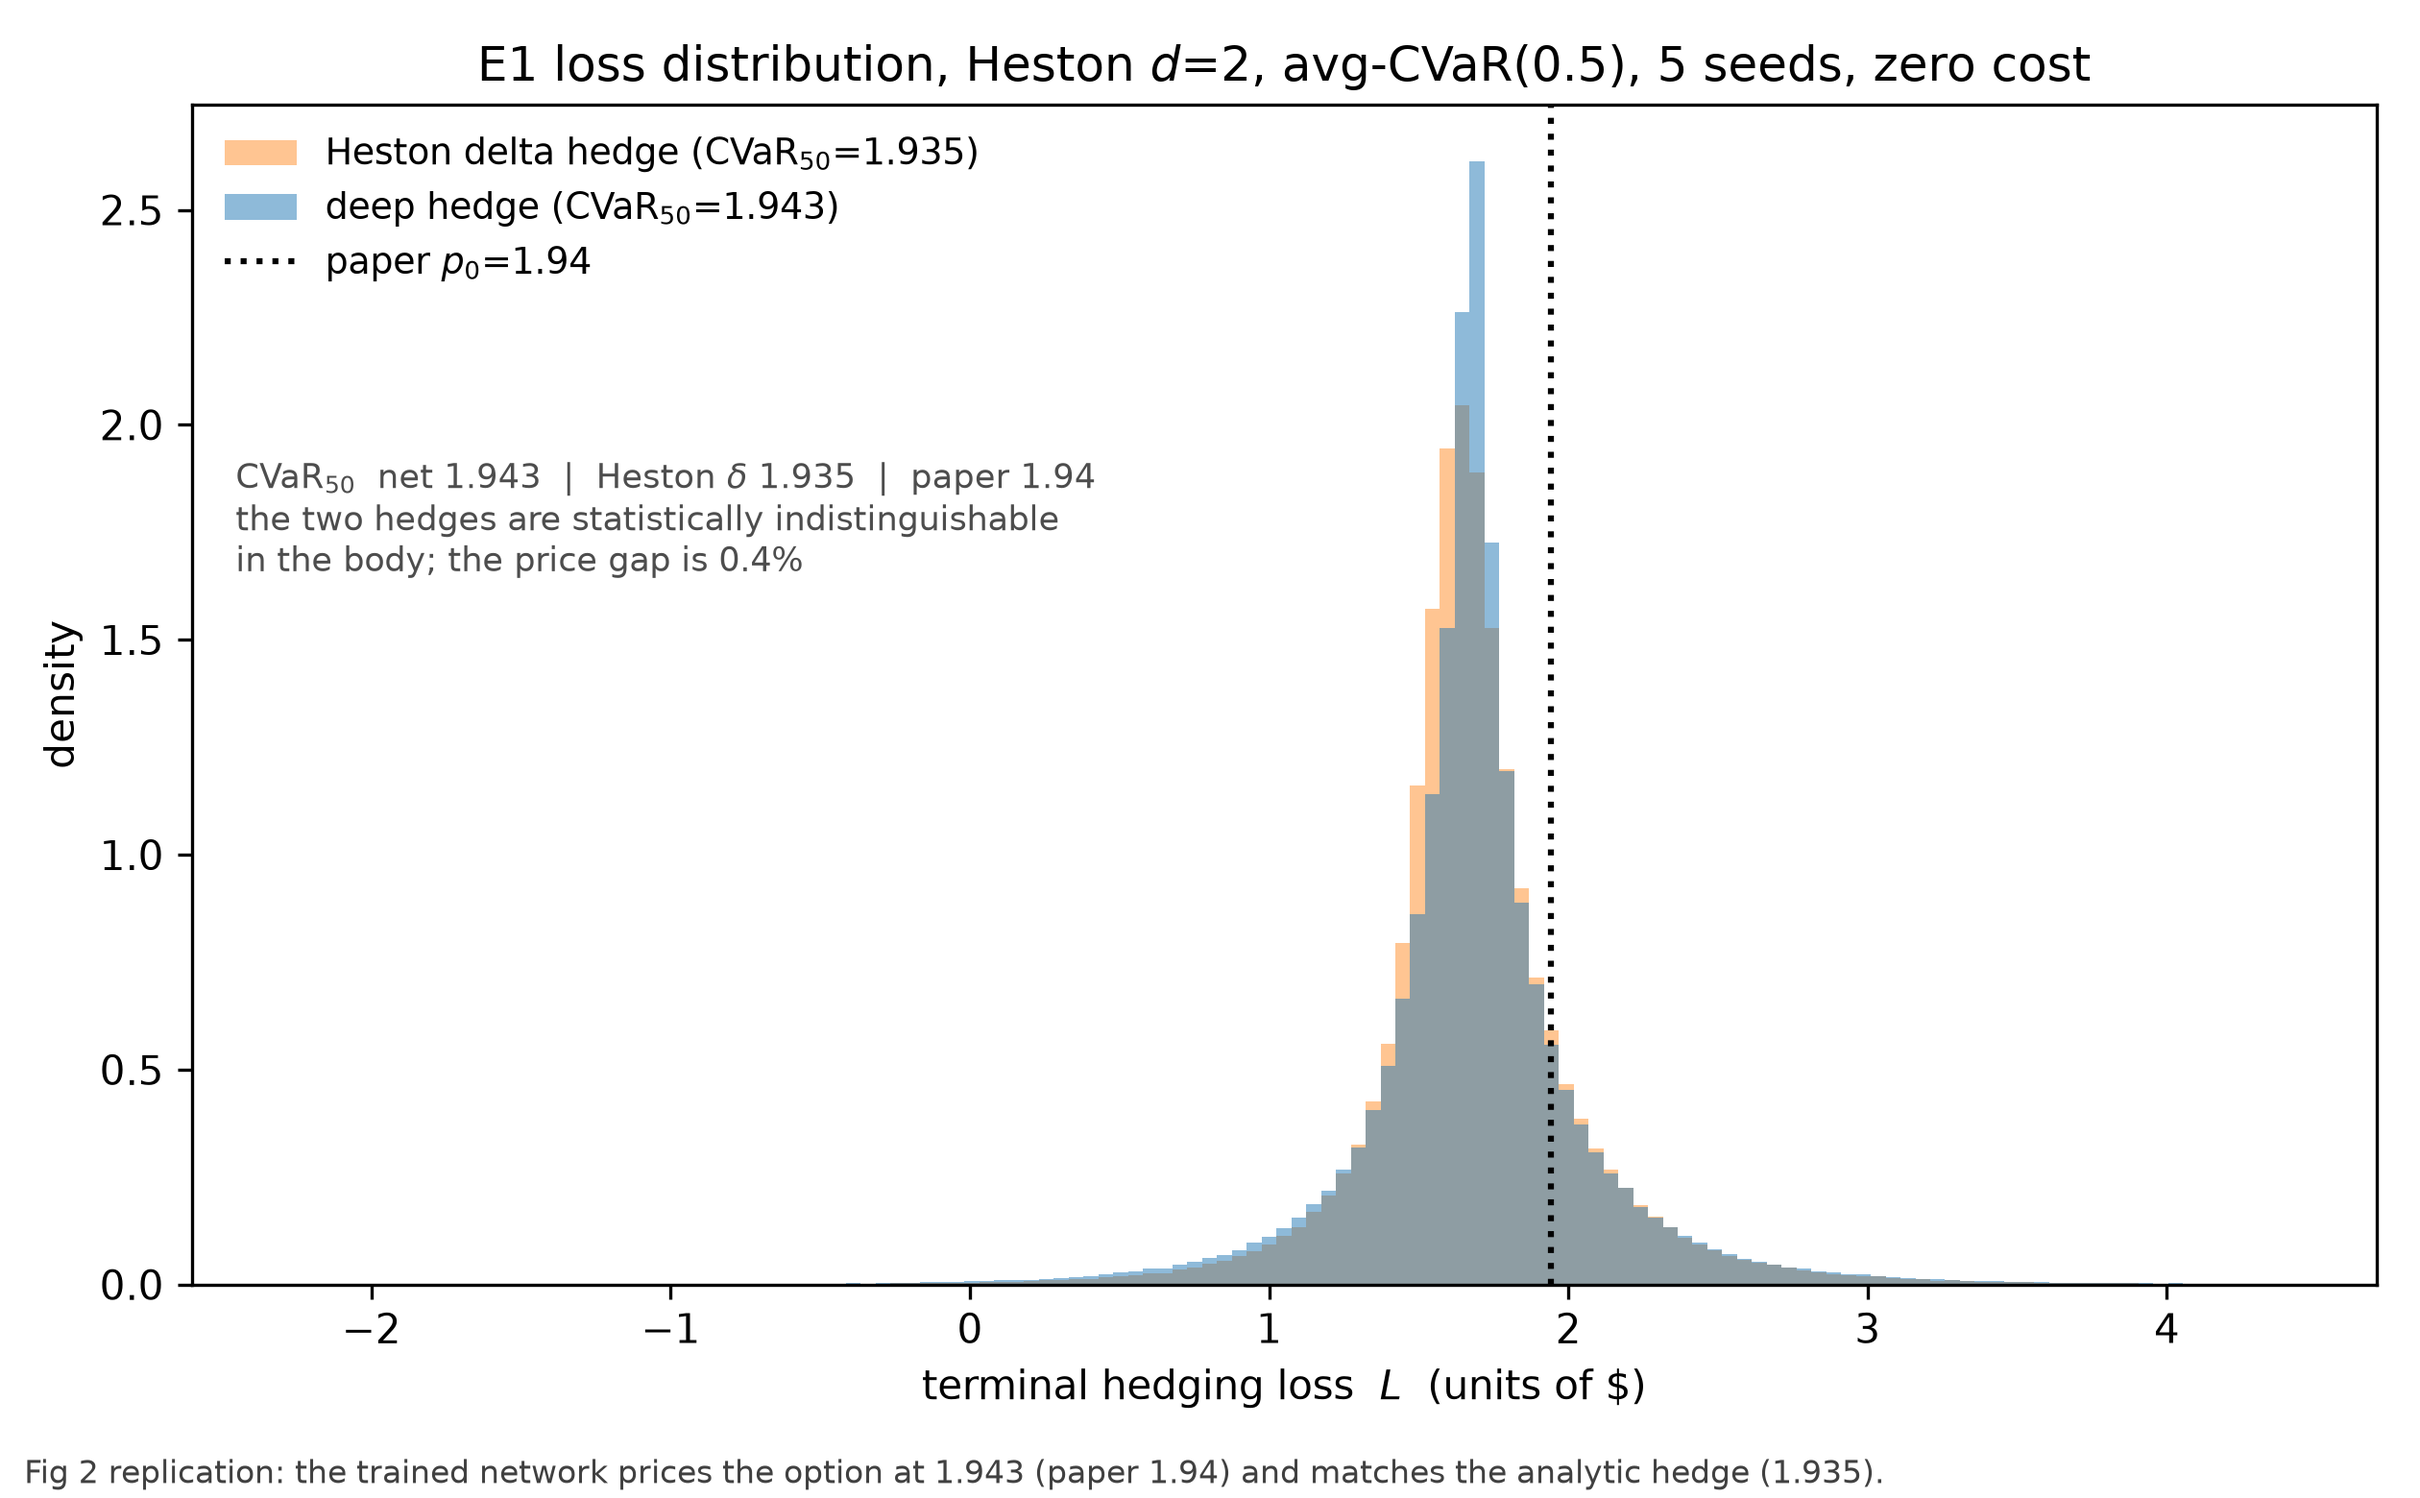
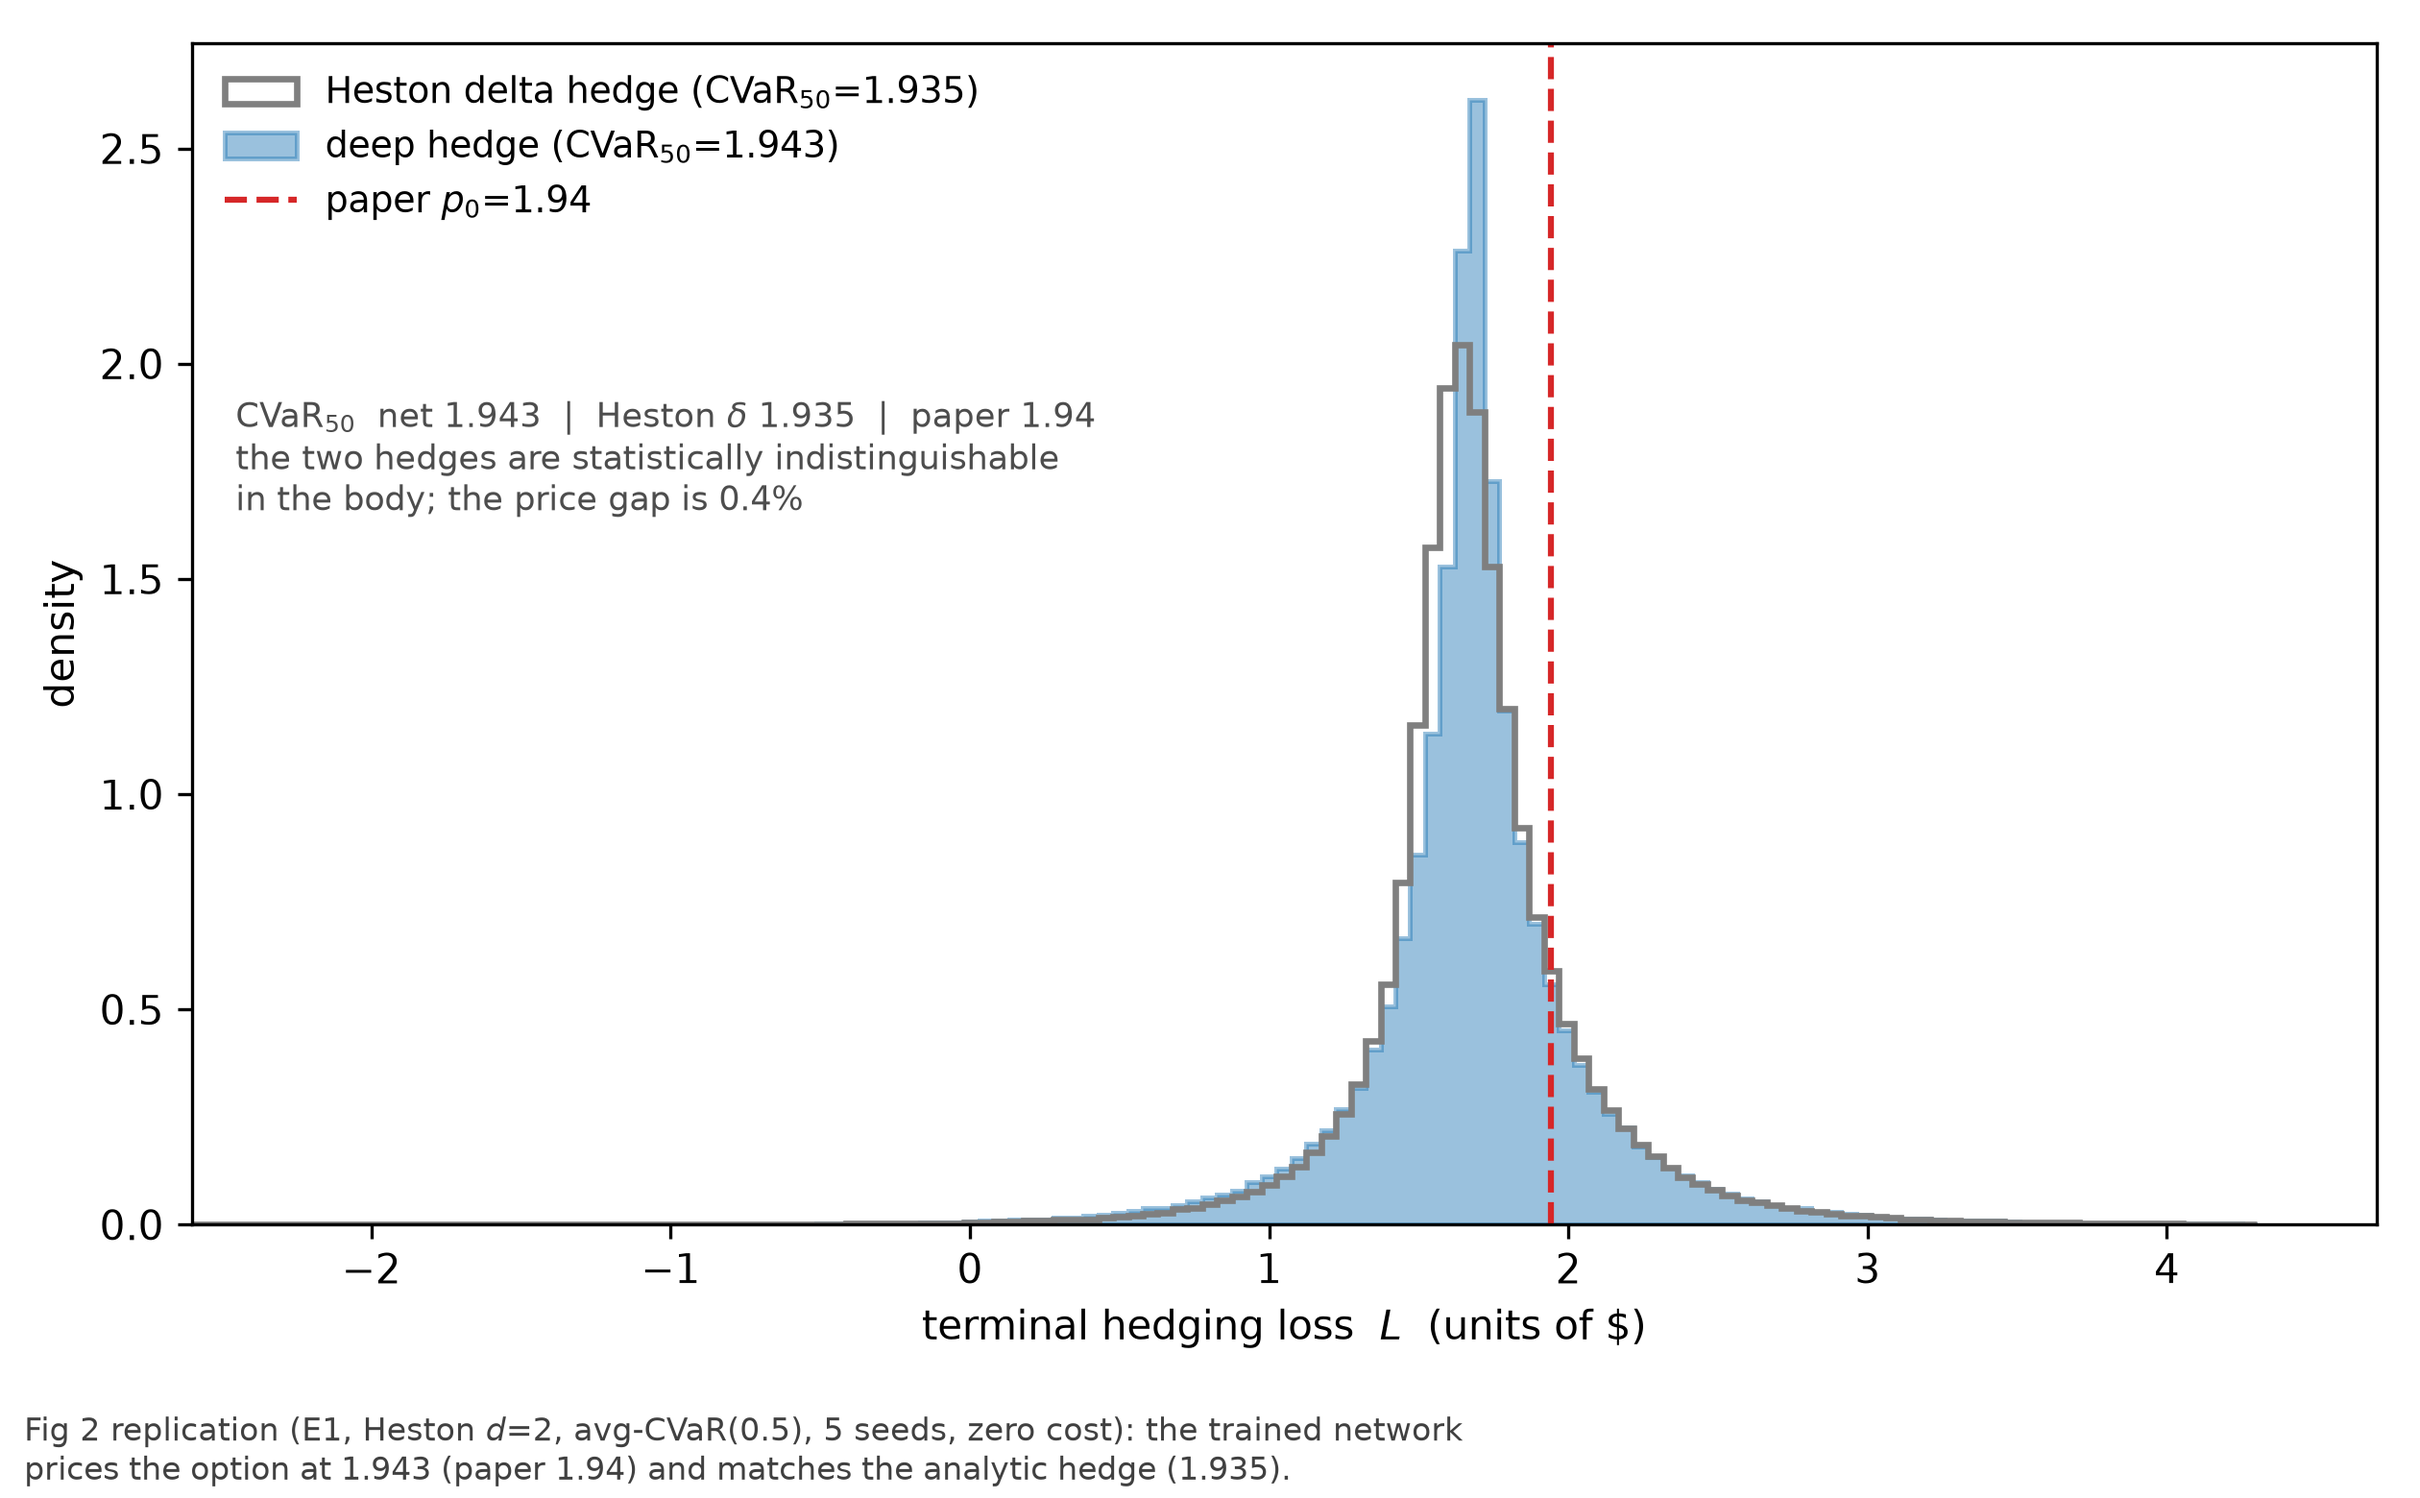
docs+figures: 按 spec §10 调图，README 更新到 A1 完成
- 图内不放标题（标题进 caption）、配色改为 网络蓝 / 基准灰 / 论文参考红虚线，
  caption 改成两行「一句话结论」；fig02 基准改空心 step（原来橙色实心被蓝色盖住）。
- fig03 窗口收到 S∈[93,107]、v∈[0.010,0.080]，网格 22x16、计数阈值 5：17875/100000 路径，
  不再有大片空洞；同排共用 vmin/vmax，δ1 MAE 0.021、δ2 MAE 16.8。
- README：状态改 A1 完成，目录树与实际对齐，新增「A1 现在能跑什么」命令表与定稿数字。
- e1_diagnosis.md §5 的复跑命令改成真实入口 src.replication.train。

diff --git a/scripts/make_figures.py b/scripts/make_figures.py
@@ -56,29 +56,32 @@ def fig02(exp: str = "e1") -> Path:
     lo = max(min(loss.min(), bench.min()), -2.6)
     hi = float(np.percentile(loss, 99.9))
     bins = np.linspace(lo, hi, 140)
+    bench_color = "#7f7f7f"  # spec §10：基准用灰
+    net_color = "#1f77b4"  # spec §10：网络用蓝
     ax.hist(
         bench,
         bins=bins,
         density=True,
-        alpha=0.45,
+        histtype="step",
+        lw=1.6,
         label=f"Heston delta hedge (CVaR$_{{50}}$={c_bench:.3f})",
-        color="#ff7f0e",
+        color=bench_color,
     )
     ax.hist(
         loss,
         bins=bins,
         density=True,
-        alpha=0.50,
+        histtype="stepfilled",
+        alpha=0.45,
+        lw=1.2,
+        edgecolor=net_color,
         label=f"deep hedge (CVaR$_{{50}}$={c_net:.3f})",
-        color="#1f77b4",
+        color=net_color,
     )
-    ax.axvline(PAPER_P0, color="k", ls=":", lw=1.5, label=f"paper $p_0$={PAPER_P0}")
+    ax.axvline(PAPER_P0, color="#d62728", ls="--", lw=1.5, label=f"paper $p_0$={PAPER_P0}")
     ax.set_xlim(lo, hi + 0.4)
     ax.set_xlabel("terminal hedging loss  $L$  (units of \\$)")
     ax.set_ylabel("density")
-    ax.set_title(
-        f"E1 loss distribution, Heston $d$=2, avg-CVaR(0.5), {len(seeds)} seeds, zero cost"
-    )
     ax.legend(frameon=False, fontsize=9, loc="upper left")
     ax.text(
         0.02,
@@ -94,13 +97,14 @@ def fig02(exp: str = "e1") -> Path:
     )
     fig.text(
         0.01,
-        0.01,
-        f"Fig 2 replication: the trained network prices the option at {price:.3f} "
-        f"(paper {PAPER_P0}) and matches the analytic hedge ({c_bench:.3f}).",
+        0.005,
+        f"Fig 2 replication (E1, Heston $d$=2, avg-CVaR(0.5), {len(seeds)} seeds, zero cost): the trained network\n"
+        f"prices the option at {price:.3f} (paper {PAPER_P0}) and matches the analytic hedge ({c_bench:.3f}).",
         fontsize=8,
         color="0.25",
+        va="bottom",
     )
-    fig.tight_layout(rect=(0, 0.03, 1, 1))
+    fig.tight_layout(rect=(0, 0.07, 1, 1))
     out = FIG / "fig02_loss_hist.png"
     fig.savefig(out, dpi=300)
     plt.close(fig)
@@ -191,19 +195,18 @@ def fig03(exp: str = "e1", k: int = 15) -> Path:
         ax.set_xlabel("spot $S_{15}$")
         ax.set_ylabel("variance $v_{15}$")
         fig.colorbar(mesh, ax=ax, fraction=0.046, pad=0.03)
-    fig.suptitle(
-        f"E1 delta surface at $t=15$d: 5-seed mean network vs Heston model "
-        f"({mask.sum()}/{len(mask)} paths in window)"
-    )
     fig.text(
         0.01,
-        0.01,
-        f"Fig 3 replication: on the (S,v) window the network reproduces the model $\\delta_1$ "
-        f"(RMSE {d1_rmse:.3f}) and the shape of $\\delta_2$ (RMSE {d2_rmse:.1f} on a ~500 scale).",
+        0.005,
+        f"Fig 3 replication (E1, $t=15$d, 5-seed mean network vs Heston model, "
+        f"{mask.sum()}/{len(mask)} paths in the window): the network reproduces\n"
+        f"the model $\\delta_1$ (RMSE {d1_rmse:.3f}) and the shape of $\\delta_2$ "
+        f"(RMSE {d2_rmse:.1f} on a ~500 scale).",
         fontsize=8,
         color="0.25",
+        va="bottom",
     )
-    fig.tight_layout(rect=(0, 0.03, 1, 0.96))
+    fig.tight_layout(rect=(0, 0.06, 1, 1))
     out = FIG / "fig03_delta_surface.png"
     fig.savefig(out, dpi=300)
     plt.close(fig)
@@ -225,15 +228,15 @@ def fig04(exp: str = "e1") -> Path:
         ax.plot([xi, xi], [r, si], color="0.65", lw=1.4, zorder=1)
     ax.scatter(x, rec, s=75, color="#1f77b4", label="recurrent $\\delta_{k-1}$", zorder=3)
     ax.scatter(x, simp, s=75, color="#9467bd", marker="s", label="simpler (feed-forward)", zorder=3)
-    ax.axhline(PAPER_P0, color="k", ls=":", lw=1.5, label=f"paper $p_0$={PAPER_P0}")
-    ax.axhline(bm, color="#ff7f0e", ls="--", lw=1.2, label=f"Heston $\\delta$ hedge ({bm:.3f})")
+    ax.axhline(PAPER_P0, color="#d62728", ls="--", lw=1.5, label=f"paper $p_0$={PAPER_P0}")
+    bm = float(bench.mean())
+    ax.axhline(bm, color="#7f7f7f", ls="--", lw=1.2, label=f"Heston $\\delta$ hedge ({bm:.3f})")
     ax.set_xticks(x, [f"seed {s}" for s in seeds])
     ax.set_xlim(-0.6, len(seeds) - 0.4)
     ax.set_ylim(
         min(rec.min(), simp.min(), bm) - 0.0015, max(rec.max(), simp.max(), PAPER_P0) + 0.0035
     )
     ax.set_ylabel("price  $p_0$  (CVaR$_{50}$)")
-    ax.set_title("E1 recurrent vs simpler architecture, zero cost")
     ax.legend(frameon=False, fontsize=8.5, loc="upper left", ncol=2)
     for xi, r, si in zip(x, rec, simp, strict=True):
         ax.annotate(
@@ -255,12 +258,14 @@ def fig04(exp: str = "e1") -> Path:
     )
     fig.text(
         0.01,
-        0.01,
-        "Fig 4 replication: with zero cost the architecture changes the price by less than 3%.",
+        0.005,
+        "Fig 4 replication (E1, zero cost): the recurrent and simpler architectures agree to 0.15% in price,\n"
+        "so with the Markov state $(S,v)$ observable the previous position adds no information.",
         fontsize=8,
         color="0.25",
+        va="bottom",
     )
-    fig.tight_layout(rect=(0, 0.03, 1, 1))
+    fig.tight_layout(rect=(0, 0.07, 1, 1))
     out = FIG / "fig04_recurrent_vs_simpler.png"
     fig.savefig(out, dpi=300)
     plt.close(fig)

diff --git a/README.md b/README.md
@@ -1,6 +1,7 @@
 # SDSC4107 · Deep Hedging 复现 × 港股交叉验证
 
-> 状态：**G0 骨架就绪**（`src/common`、`src/policy`、`train` 入口、测试与 CI）。下一步：pfhedge 适配层（`env_heston.py` / `env_bs.py` / `net_recurrent.py` / `losses.py`）。
+> 状态：**A1 完成**（骨架 + pfhedge 适配层 + 检查点 B0 + E1 五 seed + Fig 2/3/4 + 英文方法说明）。
+> 下一步：A2（E2/E3/E4）与 B 组（港股、回测，接入 `policy_heston_d1`）。
 
 ## 先读两份文档
 
@@ -23,15 +24,19 @@ project/
 │   ├─ plan.md          # 方案 v1.3
 │   ├─ spec.md          # 协作规范 v1.2
 │   ├─ experiments.md   # 实验登记表（spec §9）
+│   ├─ b0.md            # 检查点 B0：三条对拍与通过与否
+│   ├─ e1_diagnosis.md  # E1 收敛问题的诊断、8 个配方、5 seed 表
+│   ├─ method_replication.md  # 英文方法说明（§5 的复现口径与 deviation 表）
 │   └─ paper/           # deephedging.pdf + section5.txt / section5b.txt（论文与摘录）
 ├─ src/
 │   ├─ common/          # config seed logging metrics types
-│   ├─ policy/          # policy.py（冻结接口）
-│   └─ replication/     # train.py + smoke.py（G0）；env_* / losses / benchmark 待补
-├─ configs/exp/         # debug.yaml（G0）；e1.yaml ... 待补
+│   ├─ policy/          # policy.py（冻结接口）+ weights/heston_d1.pt（A1→B2 交接件）
+│   └─ replication/     # env_heston env_bs net_recurrent losses benchmark pricing e1 train smoke
+├─ configs/exp/         # debug.yaml / e1.yaml / e1d1.yaml
 ├─ tests/
-├─ scripts/             # ci.py；fetch_hk.py / check_b0.py / repro.py 待补
-├─ figures/             # 报告终版图
+├─ scripts/             # ci / check_b0 / make_figures / sweep_recipes / export_policy_d1
+│   └─ diagnostics/     # 一次性诊断探针（追溯用，不参与 CI）
+├─ figures/             # fig02_loss_hist / fig03_delta_surface / fig04_recurrent_vs_simpler
 ├─ reports/             # 英文正文
 └─ refs/                # 第三方仓库快照，只读参考，不改、不提交
     ├─ pfhedge/         # pfnet-research/pfhedge @ 1fc08c7 (2024-08-30)
@@ -51,6 +56,21 @@ cd E:\cityu\sdsc4107\project
 ```
 
 本地 CI（ruff + pytest，与 GitHub Actions 同源）：`.venv\Scripts\python.exe scripts\ci.py`。
+
+## A1 现在能跑什么
+
+下面每条都用 `.venv\Scripts\python.exe -m ...` 从仓库根目录跑。
+
+| 命令 | 干什么 | 产物 |
+|---|---|---|
+| `scripts.check_b0` | Heston 价 / 方差互换 / 中间时点三条对拍（4 s） | `results/b0/b0.json`，结论在 [docs/b0.md](docs/b0.md) |
+| `src.replication.train --config configs/exp/e1.yaml --seed k` | E1 一个 seed（单核约 60 min，5 个并行更划算） | `results/e1/k/`（含 `metrics.json`） |
+| `scripts.make_figures` | Fig 2/3/4，需要 `results/e1/0..4` | `figures/*.png`（300 dpi） |
+| `scripts.export_policy_d1` | 冻结 d=1 策略，交 B2 回测 | `src/policy/weights/heston_d1.pt` |
+| `scripts.sweep_recipes --list` | 8 个训练配方的并行对照（定了 E1 的配方） | `results/sweep/summary.md` |
+
+E1 定稿数字：5 seed price **1.9432 ± 0.0006**（论文 1.94，解析 δ 对冲 1.9346），
+mean loss 1.6912 vs q 1.69183。配方怎么选出来的见 [docs/e1_diagnosis.md](docs/e1_diagnosis.md) §6。
 
 ## 参考仓库怎么看
 

diff --git a/docs/e1_diagnosis.md b/docs/e1_diagnosis.md
@@ -70,9 +70,9 @@ Plan B（若仍不收敛）：用解析 δ 做 300 步监督热启动，再切 C
 
 ## 5. 复跑入口
 
-    python -m scripts.train e1 --seed 0      # 单 seed（configs/exp/e1.yaml）
-    python -m scripts.train e1d1 --seed 0    # d=1
-    python -m scripts.check_b0               # B0 三对拍
+    python -m src.replication.train --config configs/exp/e1.yaml --seed 0     # d=2
+    python -m src.replication.train --config configs/exp/e1d1.yaml --seed 0   # d=1
+    python -m scripts.check_b0                                               # B0 三对拍
 
 诊断脚本在 `scripts/diagnostics/`（一次性，保留仅为追溯；`scripts/sweep_recipes.py` 是第 6 节那张表的复现入口）。
 
